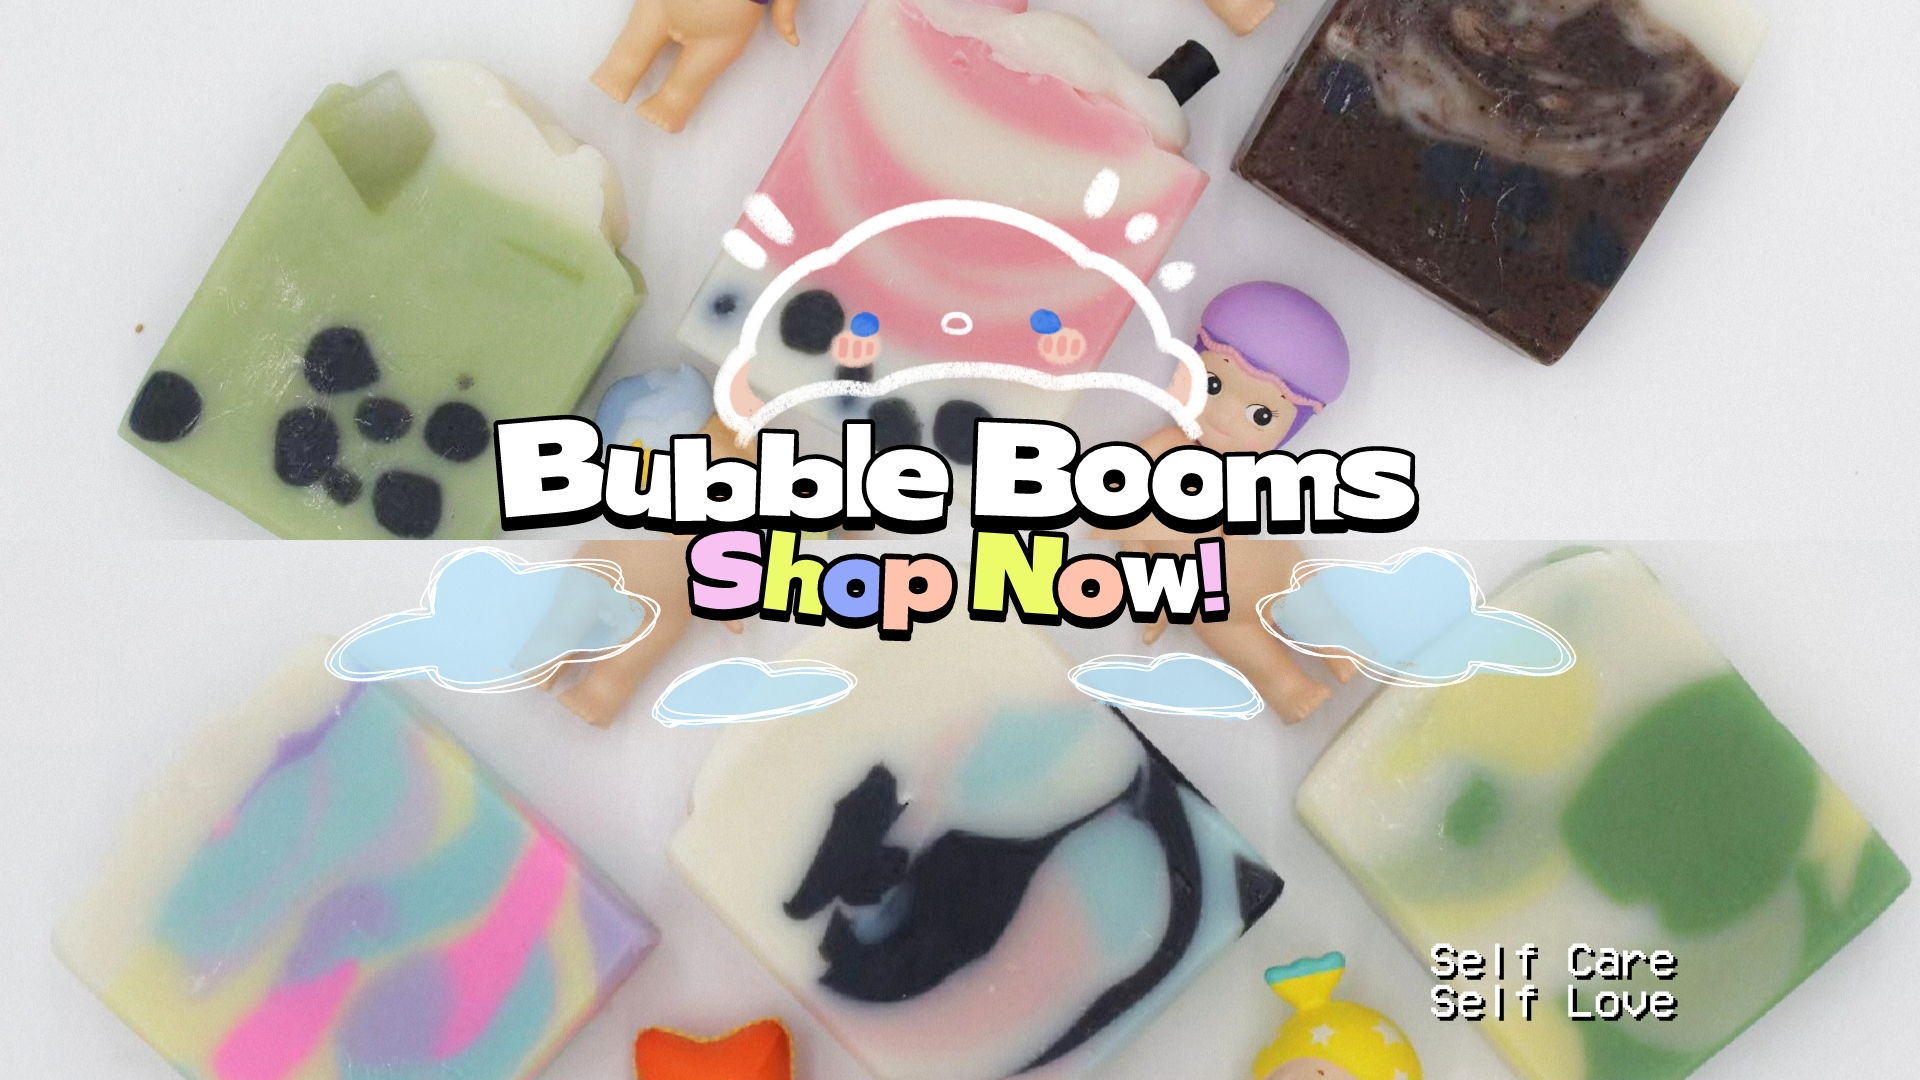
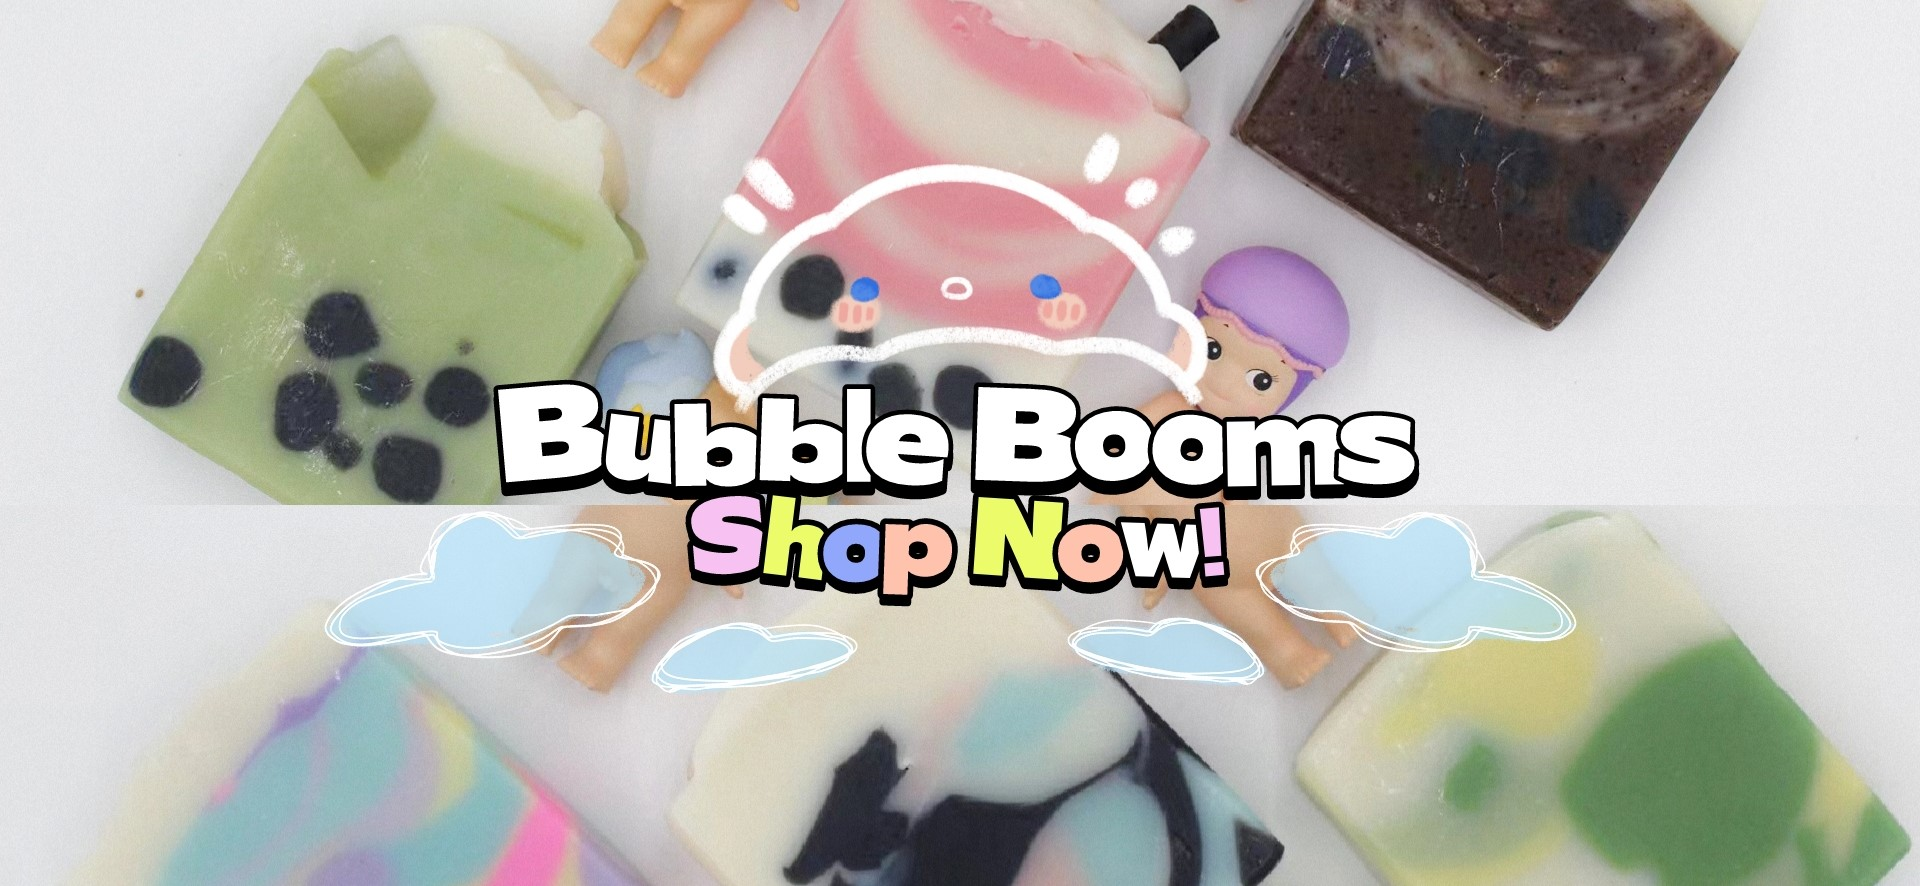
View Changes for Home & Product

diff --git a/public/css/home.css b/public/css/home.css
@@ -29,6 +29,7 @@ section {
     display: flex;
     flex-direction: row;
     justify-content: center;
+    justify-items: center;
 }
 
 #homePicture
@@ -37,33 +38,12 @@ section {
     animation: photo2 15s infinite;
     margin-top: 65px;
     overflow: hidden;
-    height: 100%;
-    width: 100%;
+    height: 90%;
+    width: 100vw;
     align-self: center;
-    object-fit: contain;
+    object-fit: fill;
 }
 
-@keyframes photo2 {
-        25% {
-            content: url("/images/homePicture2.jpg");
-            object-fit: contain;
-        }
-    
-        50% {
-            content: url("/images/homePicture1.jpg");
-            object-fit: contain;
-        }
-    
-        75% {
-            content: url("/images/homePicture2.jpg");
-            object-fit: contain;
-        }
-    
-        100% {
-            content: url("/images/homePicture1.jpg");
-            object-fit: contain;
-        }
-}
 
 #logoContainer
 {
@@ -90,7 +70,7 @@ section {
 
 #topFeatureProductContainer {
     width: 100%;
-    margin: 60px 0px 0px 0px;
+    margin: 30px 0px 35px 0px;
     text-align: center;
 }
 
@@ -103,13 +83,14 @@ section {
 #checkOutContainer {
     text-align: center;
     margin-bottom: 50px;
+    margin-top: 30px;
     justify-content: center;
     align-self: center;
     display: flex;
 }
 
 #checkOutWrapper {
-    width: 300px;
+    width: 400px;
     height: 100px;
     padding: 20px;
 }
@@ -137,8 +118,8 @@ section {
 .productPhoto {
     align-self: center;
     text-align: center;
-    height: 200px;
-    width: 200px;
+    height: 300px;
+    width: 300px;
     margin-bottom: 10px;
 }
 
@@ -146,6 +127,11 @@ section {
     width: 100%;
     display: flex;
     justify-content: space-around;
+}
+
+.productName {
+    font-weight: bold;
+    font-size: 25px;
 }
 
 .productContainer {
@@ -165,7 +151,7 @@ section {
     align-items: center;
     display: flex;
     padding: 20px;
-    font-size: 14px;
+    font-size: 16px;
 }
 
 #blushBubble:hover {

diff --git a/public/css/products.css b/public/css/products.css
@@ -50,7 +50,7 @@ section {
 {
     width: 100%;
     padding-top: 20px;
-    padding-bottom: 20px;
+    padding-bottom: 50px;
     padding-left: 50px;
     padding-right: 50px;
     text-align: left;
@@ -59,7 +59,7 @@ section {
 #seasonRightContainer {
     width: 100%;
     padding-top: 20px;
-    padding-bottom: 20px;
+    padding-bottom: 50px;
     padding-left: 50px;
     padding-right: 50px;
     text-align: right;
@@ -86,8 +86,8 @@ section {
 {
     align-self: center;
     text-align:  center;
-    height: 200px;
-    width: 200px;
+    height: 250px;
+    width: 250px;
     margin-bottom: 10px;
 }
 
@@ -101,12 +101,9 @@ section {
 .productName 
 {
     font-weight: bold;
+    font-size: 25px;
 }
 
-.productPrice 
-{
-    font-weight: bold;
-}
 
 .productContainer
 {
@@ -128,7 +125,7 @@ section {
     align-items: center;
     display:flex;
     padding: 20px;
-    font-size: 14px;
+    font-size: 16px;
 }
 
 .comingsoon
@@ -147,6 +144,7 @@ section {
     background: linear-gradient(to left, #FFC3A0, #FFAFBD, #FECBC5, #F3A9C3, #FBD489);
     border-radius: 25px;
     margin: 80px 40px 40px 40px;
+    height: 34.5em;
 }
 
 #blushBubble:hover
@@ -167,7 +165,7 @@ section {
     background: linear-gradient(to right, #FFC3A0, #FFAFBD, #FECBC5, #F3A9C3 , #FBD489 );
     border-radius: 25px;
     margin: 40px;
-    height: 33em;
+    height: 38em;
 }
 
 #artistic1:hover {
